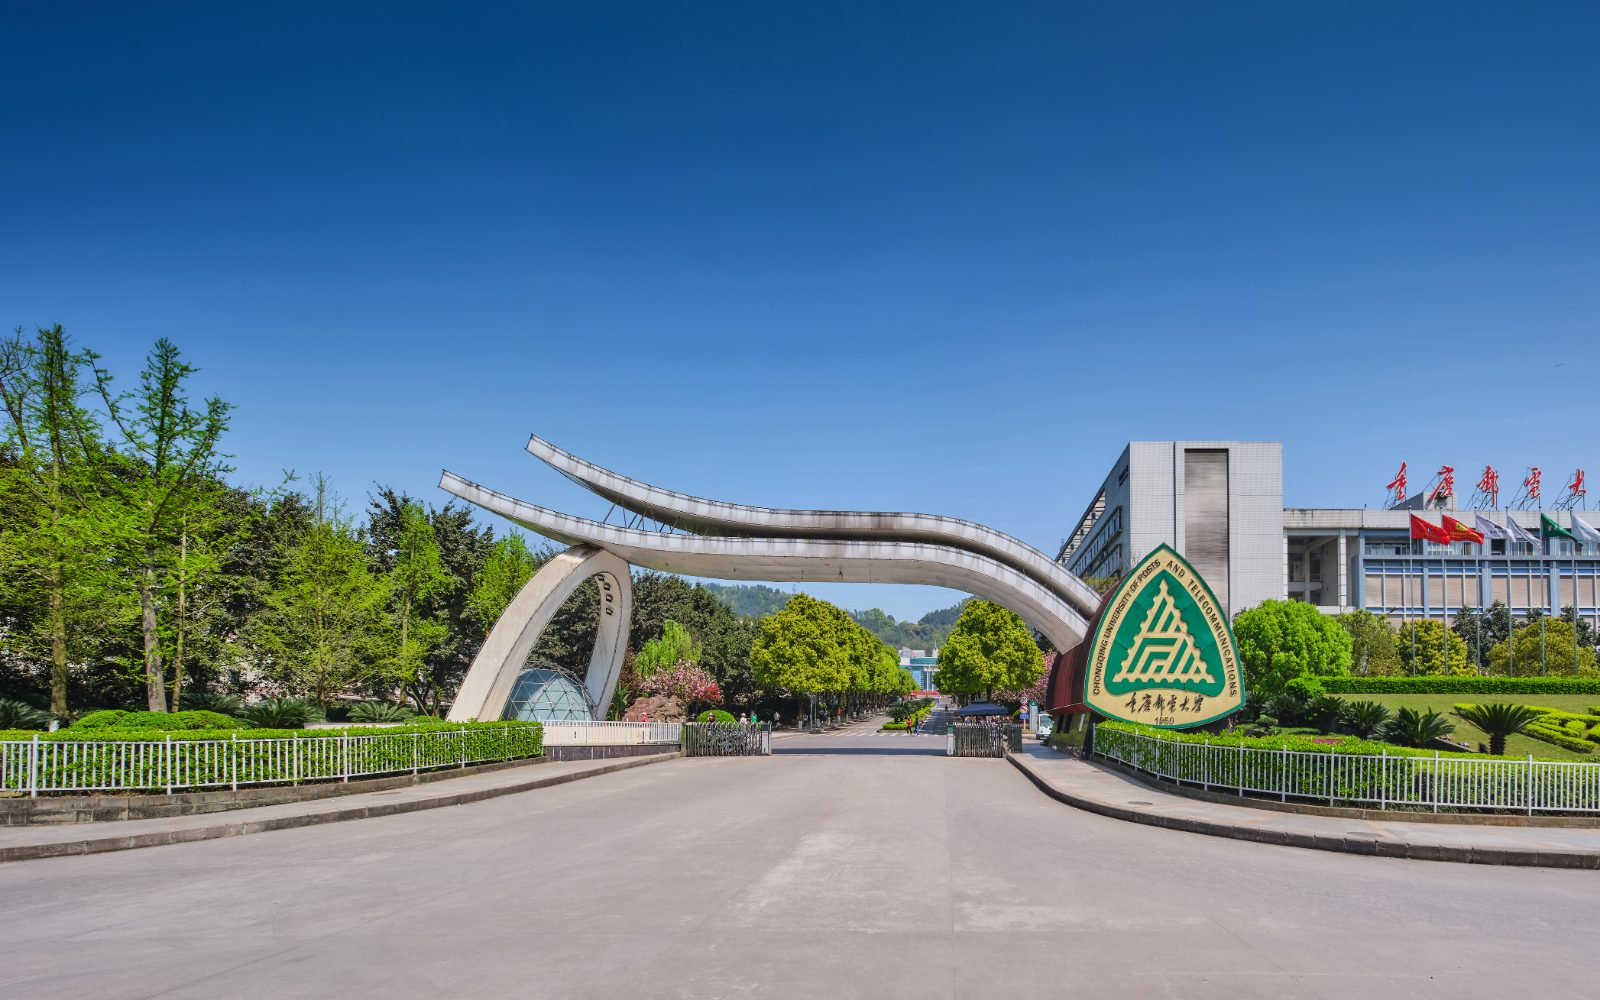
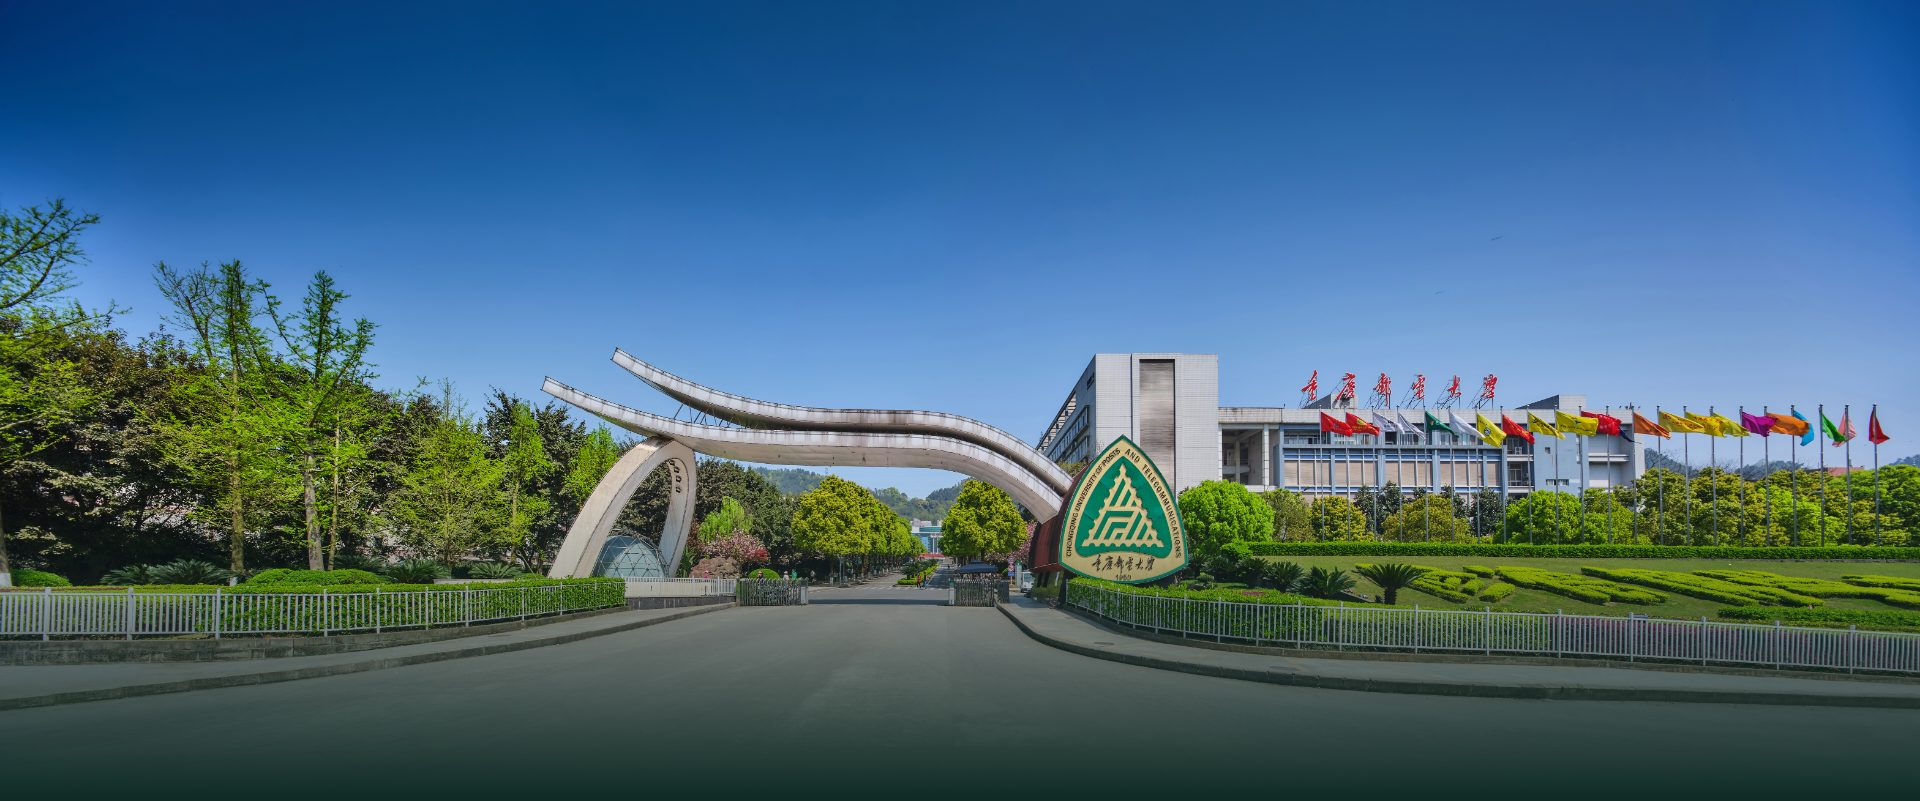
登录页背景改为整幅全景铺顶，校徽与校名都完整露出

diff --git a/login.html b/login.html
@@ -20,7 +20,9 @@
     /* 桌面：校园照片打底。用的是学校统一认证登录页那张腾飞门全景
        （ids.cqupt.edu.cn 的 bg1.jpg），版权归学校，仅用于校内演示。
        原图 12541×5234，这里按 16:9 裁切并压到 1920×1080，见 README「图片来源」 */
-    background: #0E2A24 url("assets/images/campus-bg.jpg") center center / cover no-repeat;
+    /* 整幅全景铺顶、宽 120%：卡片居中时右侧只放得下「校徽+校名」其中一个，
+       放宽到 120% 才装得下两个；图片底部已经渐隐到 #0E2A24，下缘没有硬边 */
+    background: #0E2A24 url("assets/images/campus-bg.jpg") left top / 120% auto no-repeat;
     position: relative;
     overflow: hidden;
   }

diff --git a/README.md b/README.md
@@ -120,7 +120,8 @@ python -m http.server 8080
 
 - 来源：学校统一认证登录页使用的背景图（`ids.cqupt.edu.cn/.../bg1.jpg`），版权归学校
 - 用途限定：仅用于校内课程演示。对外展示或商业使用要先取得学校宣传部门授权
-- 本项目的改动：原图 12541×5234，按登录卡的 3:2 视野取中段裁切、缩放到 1600×1000、JPEG 质量 0.82（约 250KB）。裁切位置是按卡片位置倒推的——绿色校徽要落在卡片右侧，不能被挡住；代价是右侧红字校名被裁掉一部分，校门拱架有一半在卡片后面
+- 本项目的改动：原图 12541×5234，缩放到 1920×801，**底部 38% 渐隐到页面底色 `#0E2A24`**，JPEG 质量 0.82（约 230KB）
+- 摆放方式：不是 `cover`，而是整幅铺顶、宽度 120%（`left top / 120% auto`）。原因：卡片居中时右侧只剩 34% 宽，而「校徽 + 红字校名」合起来占画面的 27%（约 40% 视口），`cover` 怎么挪都会切掉其中一个；铺满整幅再放大 120% 才装得下两个。底部渐隐是为了让图片下缘和深绿底色接得上，不留一条硬边
 
 如果这张不能用，备选是维基共享上的同角度照片：[Tengfei Gate Chongqing University of Posts and Telecommunications.jpg](https://commons.wikimedia.org/wiki/File:Tengfei_Gate_Chongqing_University_of_Posts_and_Telecommunications.jpg)，摄影 Junyi Lou，CC BY-SA 4.0，署名即可使用；代价是那张有行人和路障，画面不如官方这张干净。
 
